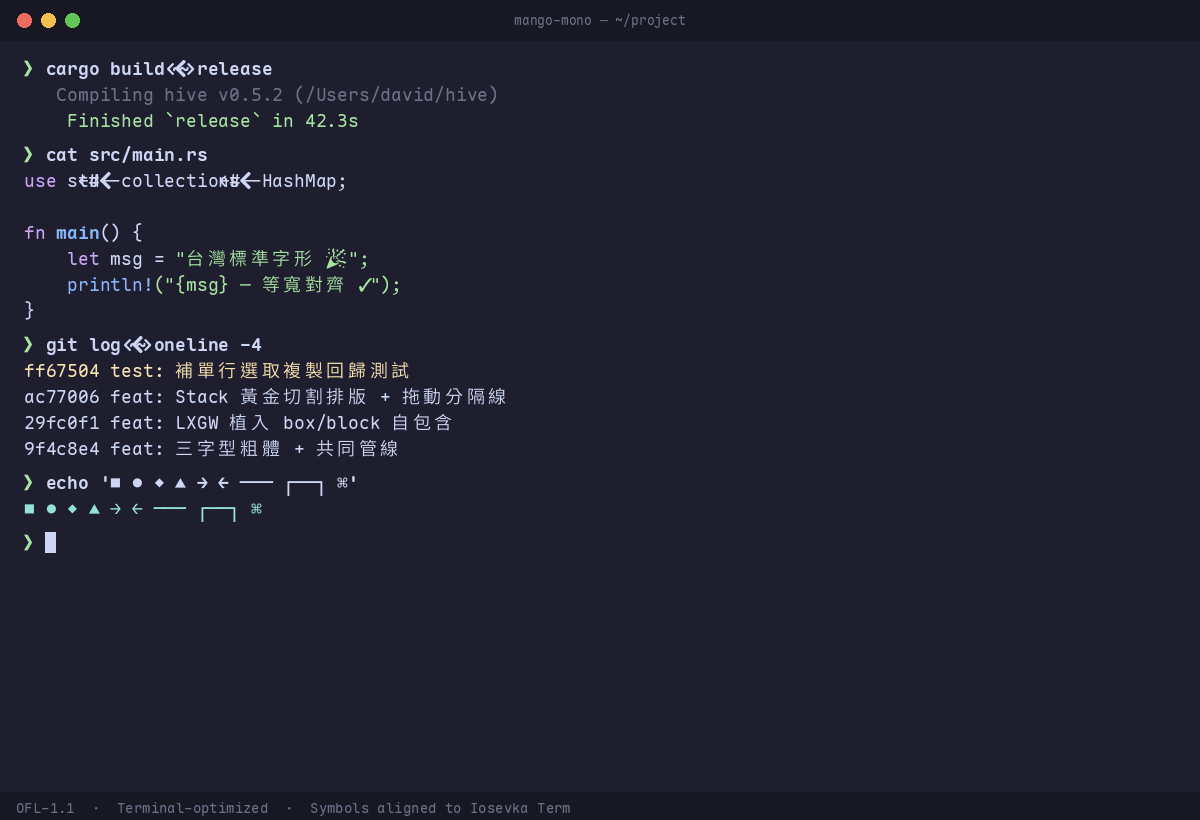
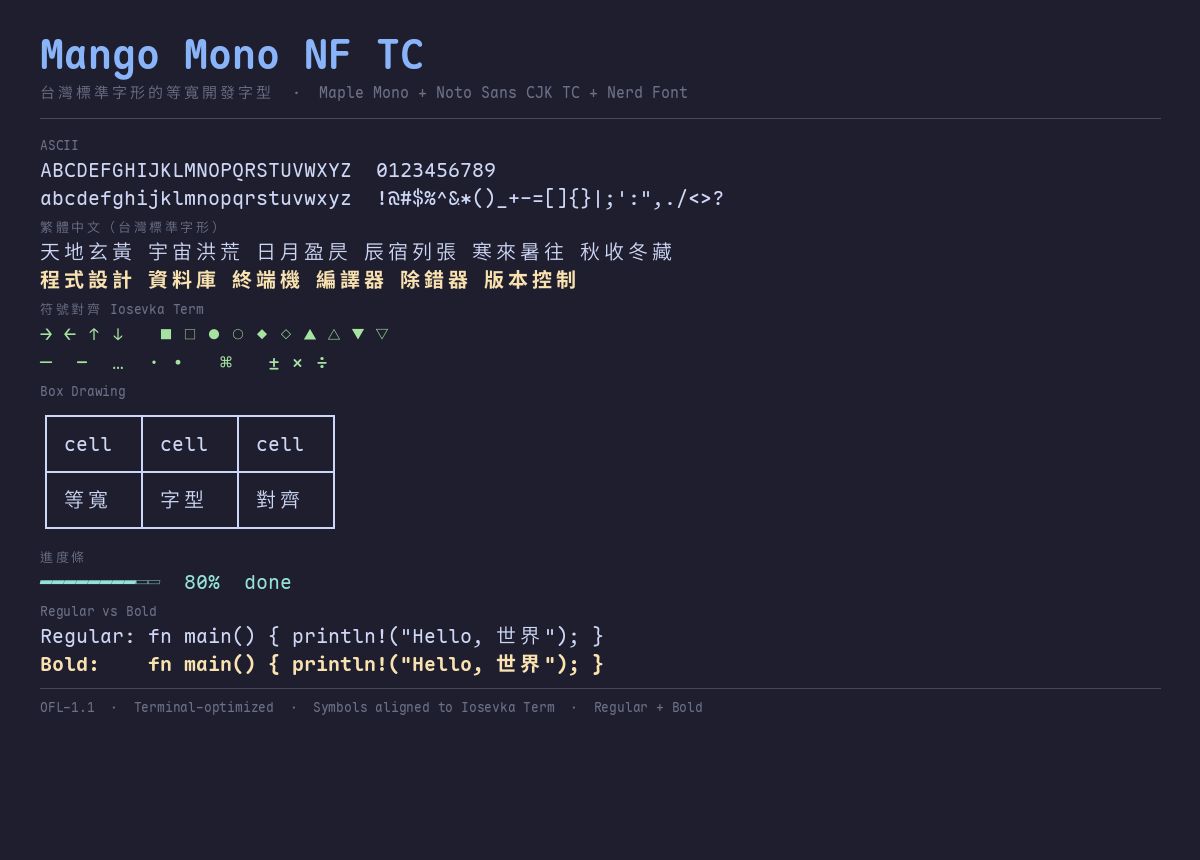
docs: 雙預覽圖（字型全覽 + 終端機效果）

diff --git a/README.md b/README.md
@@ -4,6 +4,10 @@
 
 ![preview](preview.png)
 
+### 終端機效果
+
+![terminal](preview-terminal.png)
+
 ## 字型組成
 
 | 部分 | 來源 | 授權 |